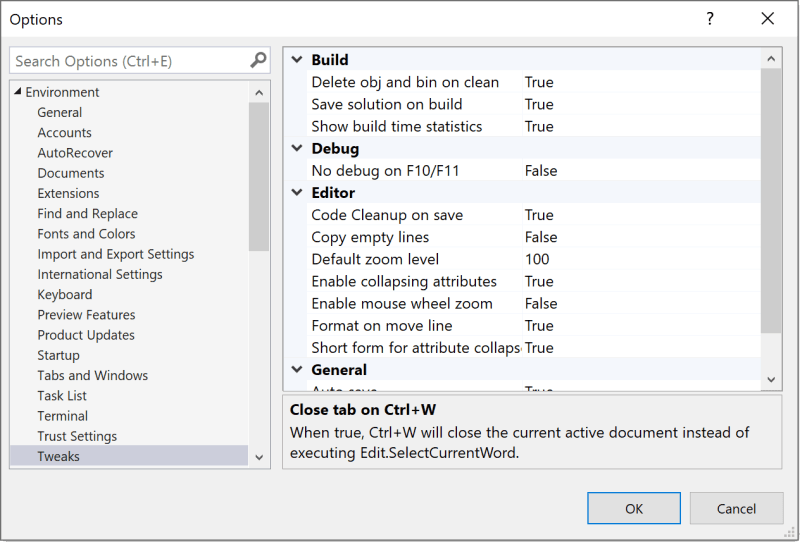
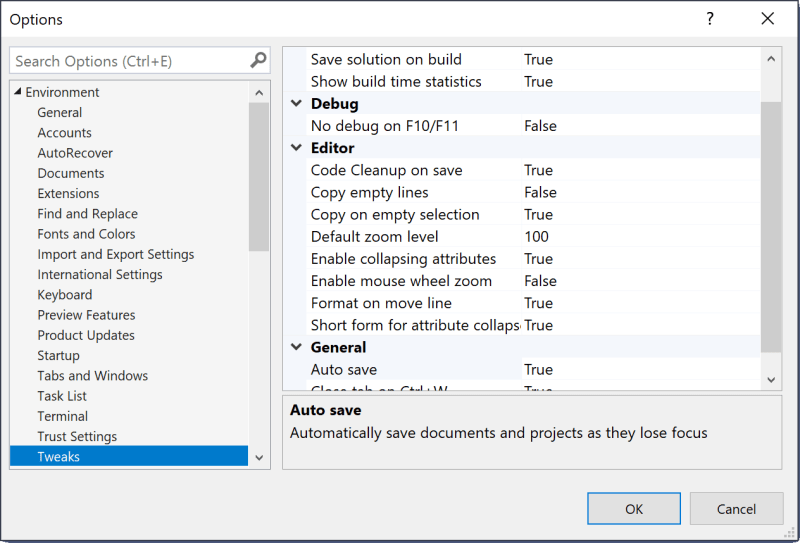
Modified DontCopyEmptySelection/Lines Fixes #5

diff --git a/src/Tweaks/DontCopyEmptySelection/DontCopyEmptySelection.cs b/src/Tweaks/DontCopyEmptySelection/DontCopyEmptySelection.cs
@@ -7,31 +7,16 @@ using Microsoft.VisualStudio.Utilities;
 namespace Tweakster.Editor
 {
     [Export(typeof(ICommandHandler))]
-    [Name(nameof(DontCopyEmptyLines))]
+    [Name(nameof(DontCopyEmptySelection))]
     [ContentType("text")]
     [TextViewRole(PredefinedTextViewRoles.PrimaryDocument)]
-    public class DontCopyEmptyLines : ICommandHandler<CopyCommandArgs>
+    public class DontCopyEmptySelection : ICommandHandler<CopyCommandArgs>
     {
-        public string DisplayName => nameof(DontCopyEmptyLines);
+        public string DisplayName => nameof(DontCopyEmptySelection);
 
         public bool ExecuteCommand(CopyCommandArgs args, CommandExecutionContext executionContext)
         {
-            if (Options.Instance.CopyEmptyLines)
-            {
-                // Feature is disabled under Tools -> Options. Abort
-                return false;
-            }
-
-            ITextView view = args.TextView;
-
-            if (!view.Selection.IsEmpty || !view.Caret.ContainingTextViewLine.Extent.IsEmpty)
-            {
-                // Pass it on to the next command handler
-                return false;
-            }
-
-            // We handled it. Don't pass it on to the next command handler
-            return true;
+            return !Options.Instance.CopyEmptySelection && args.TextView.Selection.IsEmpty;
         }
 
         public CommandState GetCommandState(CopyCommandArgs args)

diff --git a/src/Tweaks/AutoSave/AutoSave.cs b/src/Tweaks/AutoSave/AutoSave.cs
@@ -66,7 +66,10 @@ namespace Tweakster.Tweaks.AutoSave
 
             if (ShouldExecute(lostFocus?.Document?.ProjectItem))
             {
-                lostFocus.Document.Save();
+                if (!lostFocus.Document.Saved)
+                {
+                    lostFocus.Document.Save();
+                }
 
                 // Test IsDirty to filter out temp and misc project types
                 if (lostFocus.Project?.IsDirty == true)
@@ -82,7 +85,6 @@ namespace Tweakster.Tweaks.AutoSave
 
             return Options.Instance.AutoSave &&
                    _dte.Mode == vsIDEMode.vsIDEModeDesign &&
-                   item?.IsDirty == true &&
                    item?.ContainingProject != null &&
                    item?.ContainingProject?.Kind != ProjectKinds.vsProjectKindSolutionFolder;
         }

diff --git a/src/Tweaks/DontCopyEmptySelection/Options.cs b/src/Tweaks/DontCopyEmptySelection/Options.cs
@@ -1,0 +1,19 @@
+using System.ComponentModel;
+
+namespace Tweakster
+{
+    internal partial class Options : BaseOptionModel<Options>
+    {
+        [Category(Category.Editor)]
+        [DisplayName("Copy on empty selection")]
+        [Description("Specifies if anything should be copied to the clipboard when no selection is made.")]
+        [DefaultValue(true)]
+        public bool CopyEmptySelection { get; set; } = true;
+
+        [Category(Category.Editor)]
+        [DisplayName("Copy empty lines")]
+        [Description("Specifies if the line should be copied to the clipboard when no selection is made. Requires re-opening of files to change.")]
+        [DefaultValue(false)]
+        public bool CopyEmptyLines { get; set; }
+    }
+}

diff --git a/src/Tweaks/DontCopyEmptySelection/DisableCopyEmptyLines.cs b/src/Tweaks/DontCopyEmptySelection/DisableCopyEmptyLines.cs
@@ -1,0 +1,18 @@
+using System.ComponentModel.Composition;
+using Microsoft.VisualStudio.Text.Editor;
+using Microsoft.VisualStudio.Utilities;
+
+namespace Tweakster
+{
+    [Export(typeof(IWpfTextViewCreationListener))]
+    [ContentType(ContentTypes.Text)]
+    [TextViewRole(PredefinedTextViewRoles.Document)]
+    internal class DisableCopyEmptyLines : IWpfTextViewCreationListener
+    {
+        public void TextViewCreated(IWpfTextView textView)
+        {
+            var enabled = Options.Instance.CopyEmptyLines;
+            textView.Options.SetOptionValue(DefaultTextViewOptions.CutOrCopyBlankLineIfNoSelectionId, enabled);
+        }
+    }
+}

diff --git a/README.md b/README.md
@@ -29,6 +29,7 @@ It's from those tickets inspiration for this extension came.
 * **Editor**
   * [Run *Code Cleanup* on format](#codecleanup)
   * [Don't copy empty lines](#dontcopyemptylines)
+  * [Don't copy when there's no selection](#dontcopyemptyselection)
   * [Format on moving line up/down](#formatonlinemove)
   * [Disable editor zoom on mouse wheel](#disablezoom)
   * [Shortcut to set zoom to 100%](#resetzoom)
@@ -130,6 +131,12 @@ Inspired by the suggestion [Cleanup code during formatting](https://developercom
 Instead of running the *Code Cleanup* command manually, it now runs automatically when *Format Document* or **Ctrl+K,Ctrl+D** is invoked. 
 
 <h4 id="dontcopyemptylines">Don't copy empty lines</h4>
+
+Inspired by the suggestion [Please stop clearing the clipboard when you hit ctrl+c and nothing is selected](https://developercommunity.visualstudio.com/idea/693790/please-stop-clearing-the-clipboard-when-you-hit-ct.html).
+
+When the cursor is in an empty line and you hit **Ctrl+C** or **Ctrl+X** to *copy*/*cut*, then the empty lines is added to the clipboard. That is a wrong default behavior that this extension fixes.
+
+<h4 id="dontcopyemptyselection">Don't copy when there's no selection</h4>
 
 Inspired by the suggestion [Please stop clearing the clipboard when you hit ctrl+c and nothing is selected](https://developercommunity.visualstudio.com/idea/693790/please-stop-clearing-the-clipboard-when-you-hit-ct.html).
 
